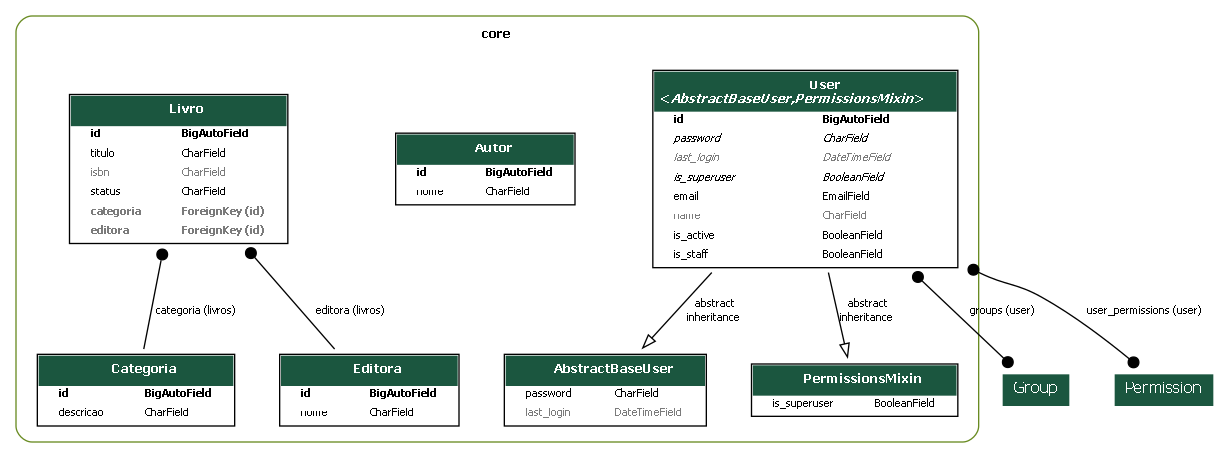
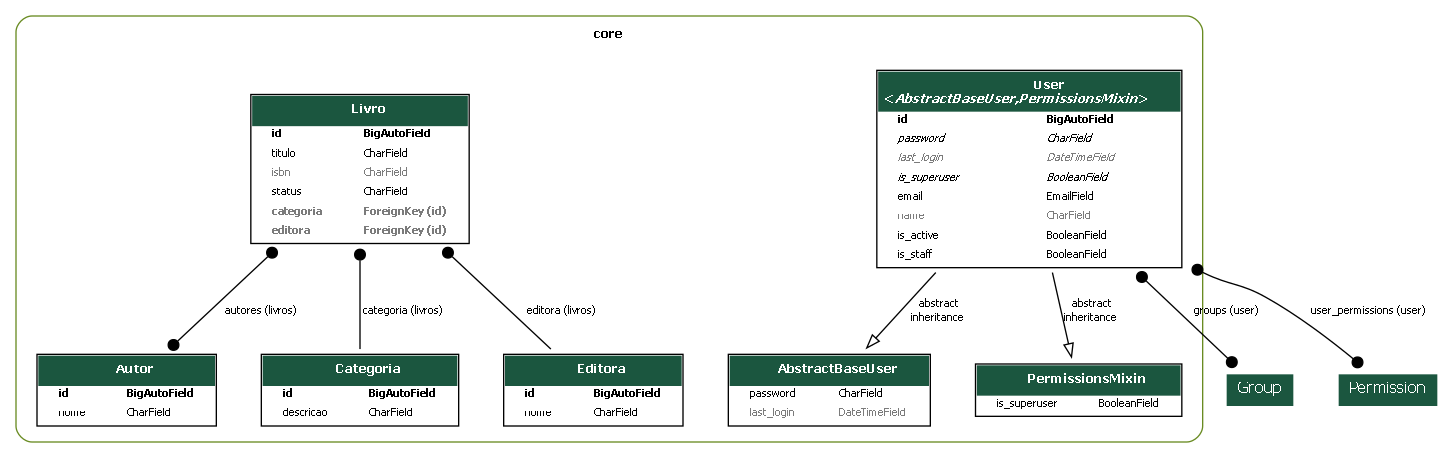
feat: inclusão do relacionamento n para n entre Livro e Autor

diff --git a/core/models/livro.py b/core/models/livro.py
@@ -13,6 +13,7 @@ class Livro(models.Model):
     status = models.CharField(max_length=20, choices=Status.choices, default=Status.DISPONIVEL)
     categoria = models.ForeignKey(Categoria, on_delete=models.PROTECT, related_name='livros', null=True, blank=True)
     editora = models.ForeignKey(Editora, on_delete=models.PROTECT, related_name='livros', null=True, blank=True)
+    autores = models.ManyToManyField(Autor, related_name='livros', blank=True)
 
     def __str__(self):
         return f'({self.id}) {self.titulo} ({self.status})'

diff --git a/core/migrations/0013_livro_autores.py b/core/migrations/0013_livro_autores.py
@@ -1,0 +1,18 @@
+# Generated by Django 5.2.17 on 2026-09-21 16:21
+
+from django.db import migrations, models
+
+
+class Migration(migrations.Migration):
+
+    dependencies = [
+        ('core', '0012_livro_categoria_livro_editora'),
+    ]
+
+    operations = [
+        migrations.AddField(
+            model_name='livro',
+            name='autores',
+            field=models.ManyToManyField(blank=True, related_name='livros', to='core.autor'),
+        ),
+    ]
